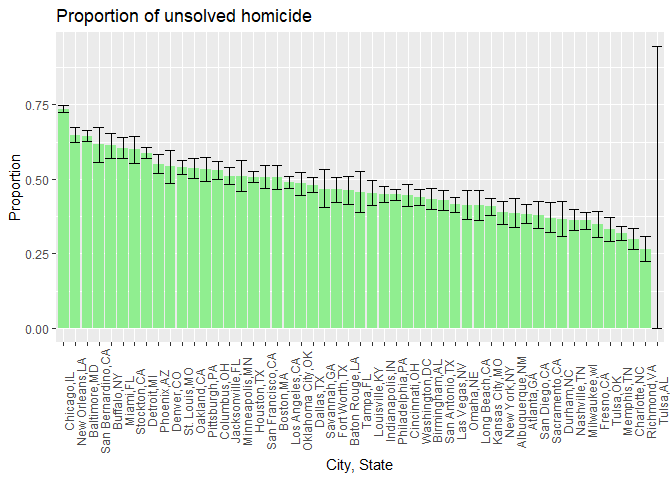
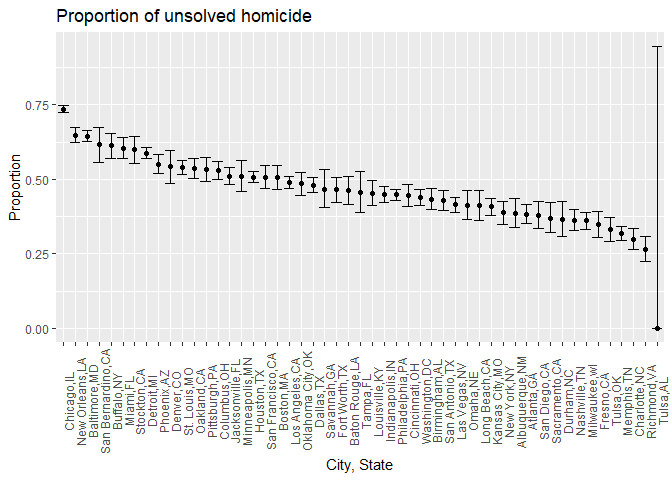
Finishing the text

Changed region(s): [[0.0625, 0.2188, 0.9688, 0.6875]]

diff --git a/8105_yh3555_hw5.md b/8105_yh3555_hw5.md
@@ -69,6 +69,10 @@ homicide = homicide %>%
   mutate(city_state = as.factor(city_state))
 ```
 
+City variable and state variable were combined via str_c() function,
+seperated by “,”. For further manipulate convinience, city_state
+varibale is changed from character to factor.
+
 ``` r
 total = homicide %>%
   group_by(city_state) %>%
@@ -98,11 +102,11 @@ By grouping the city_state with disposition, “closed without arrest” and
 “Open/No arrest” were filtered. These two types of cases underwent
 pivot_wider function to be variables so that the number of cases in each
 city_state can be found via summarize(). The total number of unsolved
-cases is the the sum of that of `Closed without arrest` and
-`Open/No arrest`. The na is replaced with 0. In this tibble, we can find
-that Chicago, IL still have the most total unsolved cases, to be 4073
-cases, with 3686 “Open/No arrest”. The second one, Baltimore, MD, have
-1825 unsolved cases, with 1673 “Open/No arrest.
+cases is the the sum of that of Closed without arrest and Open/No
+arrest. The na is replaced with 0. In this tibble, we can find that
+Chicago, IL still have the most total unsolved cases, to be 4073 cases,
+with 3686 “Open/No arrest”. The second one, Baltimore, MD, have 1825
+unsolved cases, with 1673 “Open/No arrest.
 
 ``` r
 homicide_bycase = homicide %>%
@@ -141,7 +145,7 @@ homicide_bycase
 
 The tibble was rearranged by mutate the cases into total_unsolved and
 total. To find the proportion, only city_state, total_unsolved and total
-variable were requried. Thus, only these 3 varibales were selected.
+variable were requried. Thus, only these 3 variables were selected.
 
 ``` r
 propt = function(x,n) {
@@ -150,6 +154,9 @@ propt = function(x,n) {
     select(estimate, conf.low, conf.high)
 }
 ```
+
+A function of prop.test function was created in order to analyze large
+number of variables.
 
 ``` r
 baltimore = homicide_bycase %>%
@@ -167,9 +174,11 @@ prop_bal
     ##   <fct>           <dbl>    <dbl>     <dbl>
     ## 1 Baltimore,MD    0.646    0.628     0.663
 
-By using prop.test, aftering pull the total_unsolved and total variable
-from filterd Baltimore, the proportion was calculated. The Estaimated
-proportion is 0.646, while confidence interval(0.628, 0.633).
+Baltimore’s dataset was pulled from the homicide_bycase. The propr
+function, which had been created before, was used to estimated the
+proportion. map2 function was used for check the variable and funciton
+used in this test. From the result, the estimated proportion was found
+to be 0.646, with a CI (0.628, 0.663).
 
 ``` r
 prop_city = homicide_bycase %>%
@@ -200,20 +209,24 @@ prop_city
     ## 10 Cincinnati,OH     0.445    0.408     0.483
     ## # … with 41 more rows
 
-The plot was created to show the cities’ estimates and CIs, together
-with error bars.
+Similar process was applied to the whole dataset. Each city’s estimate
+propotion and confidence interval was calculated.
 
 ``` r
 plot_homicide = prop_city %>%
   ggplot(aes(x=fct_reorder(city_state, -estimate), y=estimate)) + 
-  geom_bar(stat = "identity", fill="lightgreen") + 
+  geom_point() + 
   geom_errorbar(aes(ymin = conf.low, ymax= conf.high)) + 
   labs(x = "City, State", y = "Proportion", title = "Proportion of unsolved homicide") + 
   theme(axis.text.x = element_text(angle = 90))
 plot_homicide
 ```
 
-![](8105_yh3555_hw5_files/figure-gfm/unnamed-chunk-12-1.png)<!-- -->
+![](8105_yh3555_hw5_files/figure-gfm/unnamed-chunk-12-1.png)<!-- --> A
+scatter plot was created via ggplot function. fct_reorder() was used to
+order the city by estimated proportion. Error bar was make for every
+point, based on the confidence interval. For a better reading, the
+x-axis texts were rotated.
 
 ## Problem 3
 
@@ -230,12 +243,18 @@ ttest = function(n = 30, mean, sd=5){
 }
 ```
 
-Let’s run the mean= 0 for
+A ttest function was created with a fixed sample size of 30 and
+standared deviation of 5. The mean can be changed based on input.
+
+Let’s run the mean=0 to generate 5000 datasets.
 
 ``` r
 mean_0 = rerun(5000, ttest(mean=0)) %>%
   bind_rows
 ```
+
+rerun() function was used for this simulation. The created ttest was
+applied for mean=0. The dataset was obtained by binding the rows.
 
 Let’s repeat mean = {1, 2, 3, 4, 5, 6}
 
@@ -249,14 +268,7 @@ mean_1_6 =
   unnest(estimate)
 ```
 
-The dataset with mean from 1 to 6 was created.
-
-Make a plot showing the average estimate of μ^ on the y axis and the
-true value of μ on the x axis. Make a second plot (or overlay on the
-first) the average estimate of μ^ only in samples for which the null was
-rejected on the y axis and the true value of μ on the x axis. Is the
-sample average of μ^ across tests for which the null is rejected
-approximately equal to the true value of μ? Why or why not?
+The dataset with mean from 1 to 6 was created with map() function.
 
 ``` r
 prop_nullreject = mean_1_6 %>%
@@ -266,18 +278,21 @@ prop_nullreject = mean_1_6 %>%
   group_by(mean) %>%
   summarize(n_reject = sum(reject),
             prop_reject = n_reject / 5000) %>%
-  ggplot(aes(x = mean, y = prop_reject, color = mean)) + geom_point() + labs(title = "Proportion of nll rejected", x = "True Mean", y= "Proportion of reject")
+  ggplot(aes(x = mean, y = prop_reject)) + geom_point() + labs(title = "Proportion of nll rejected", x = "True Mean", y= "Proportion of reject")
 prop_nullreject
 ```
 
-![](8105_yh3555_hw5_files/figure-gfm/unnamed-chunk-16-1.png)<!-- -->
+![](8105_yh3555_hw5_files/figure-gfm/unnamed-chunk-16-1.png)<!-- --> A
+plot of times of null rejected vs True mean was created. From the plot,
+we can found that, with a higher True mean, the portion of rejected
+times increased and approached to 1 finally.
 
 ``` r
 plot_all_mean = 
   mean_1_6 %>%
   group_by(mean) %>%
   summarize(ave_esti = mean(estimate)) %>%
-  ggplot(aes(x = mean, y =ave_esti, color = mean)) + geom_point() +
+  ggplot(aes(x = mean, y =ave_esti)) + geom_point() +
   labs(title ="Average estimate mean vs True mean",
        x = "True mean", y = "Average estimate mean")
 plot_all_mean
@@ -291,7 +306,7 @@ plot_reject_mean =
   filter(p.value < 0.05) %>%
   group_by(mean) %>%
   summarize(ave_esti = mean(estimate)) %>%
-  ggplot(aes(x =mean, y = ave_esti, color = mean)) + geom_point() +
+  ggplot(aes(x =mean, y = ave_esti)) + geom_point() +
   labs(title ="Average rejected estimate mean vs True mean",
        x = "True mean", y = "Average estimate rejected mean")
 plot_reject_mean
@@ -305,3 +320,7 @@ plot_full
 ```
 
 ![](8105_yh3555_hw5_files/figure-gfm/unnamed-chunk-19-1.png)<!-- -->
+
+From the two-panel plot, the average of mean from the test where the
+null was rejected was not equal to the true mean. These values were
+rejected, indicating they may be greatly different from the true mean.
